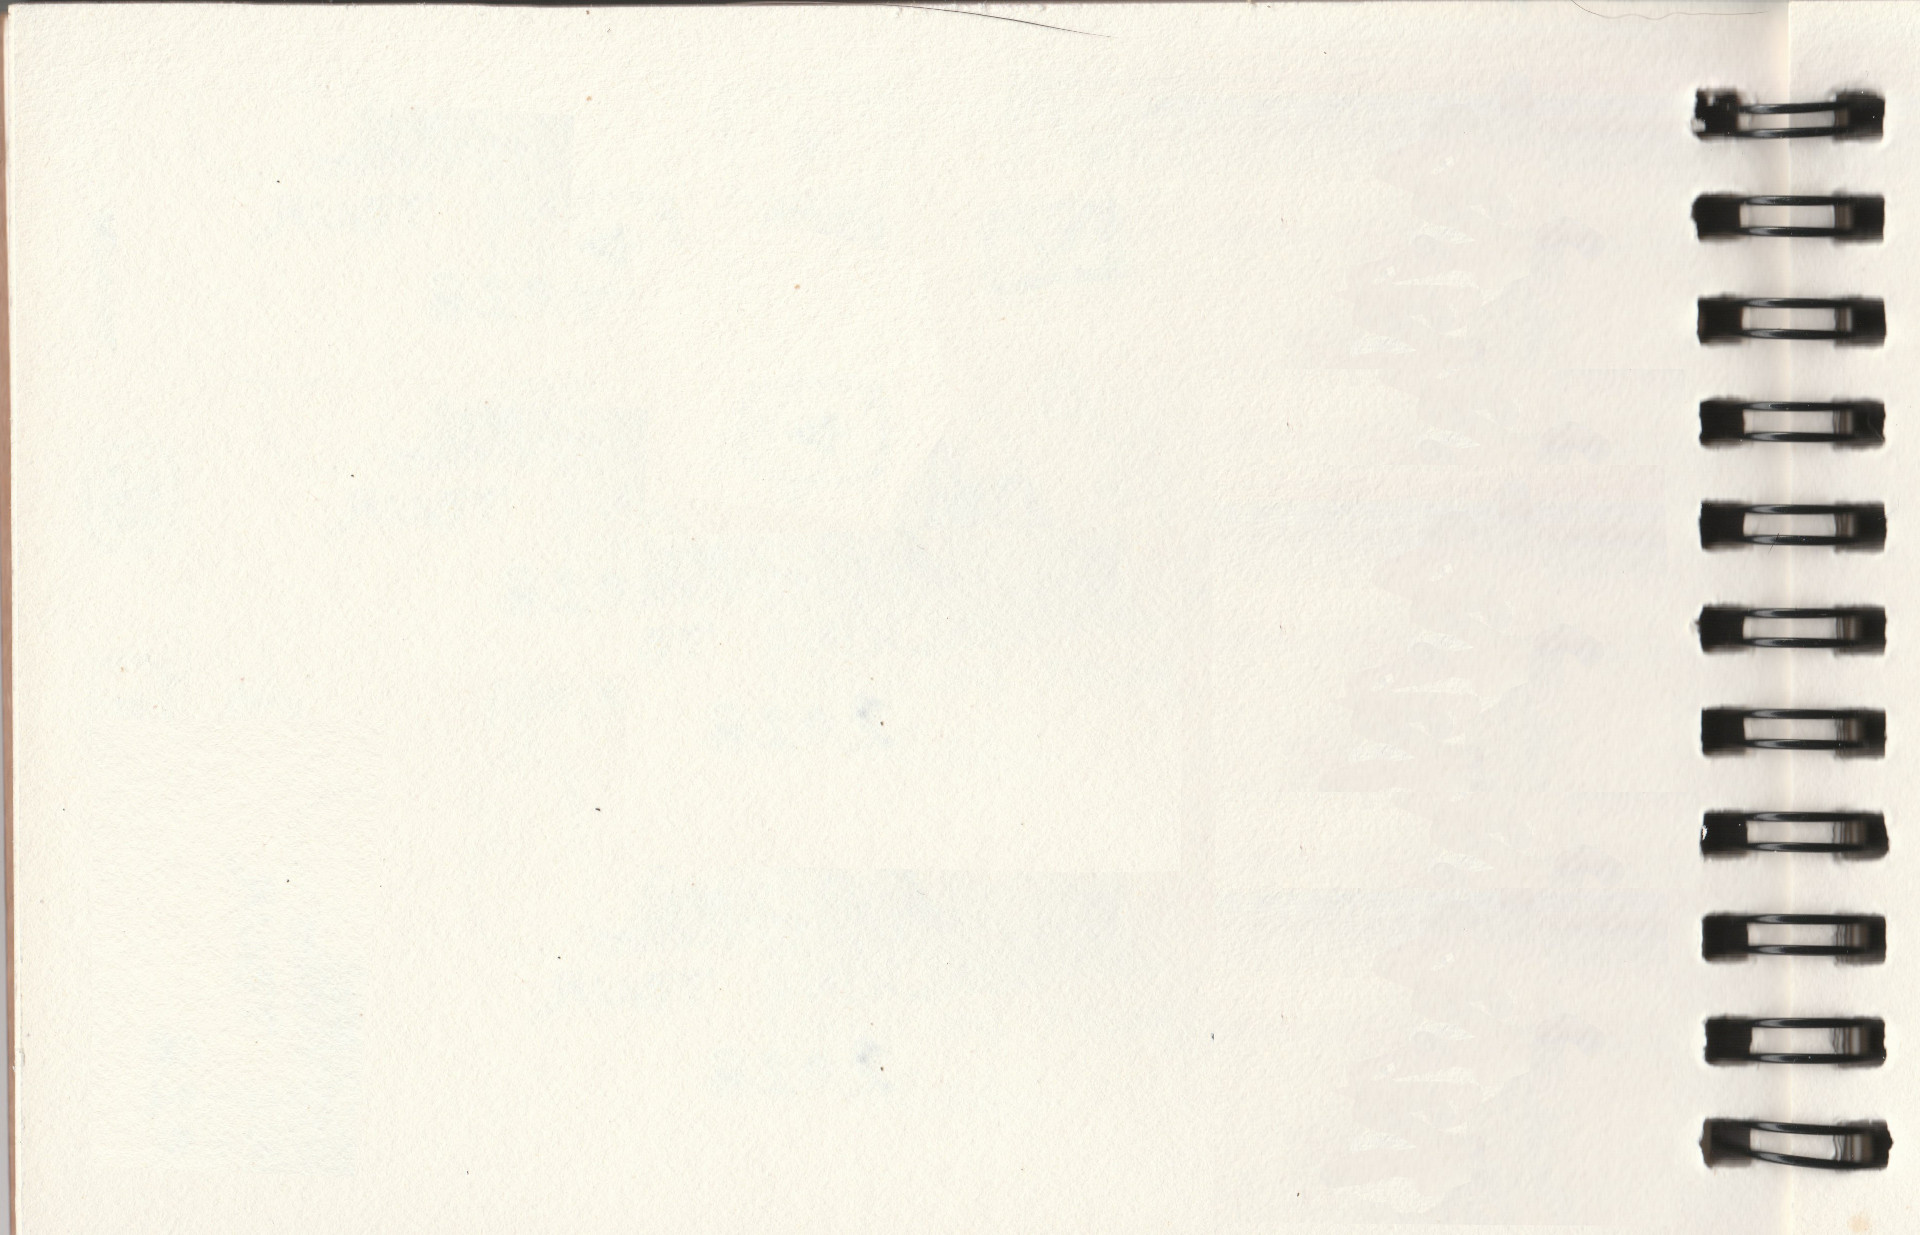
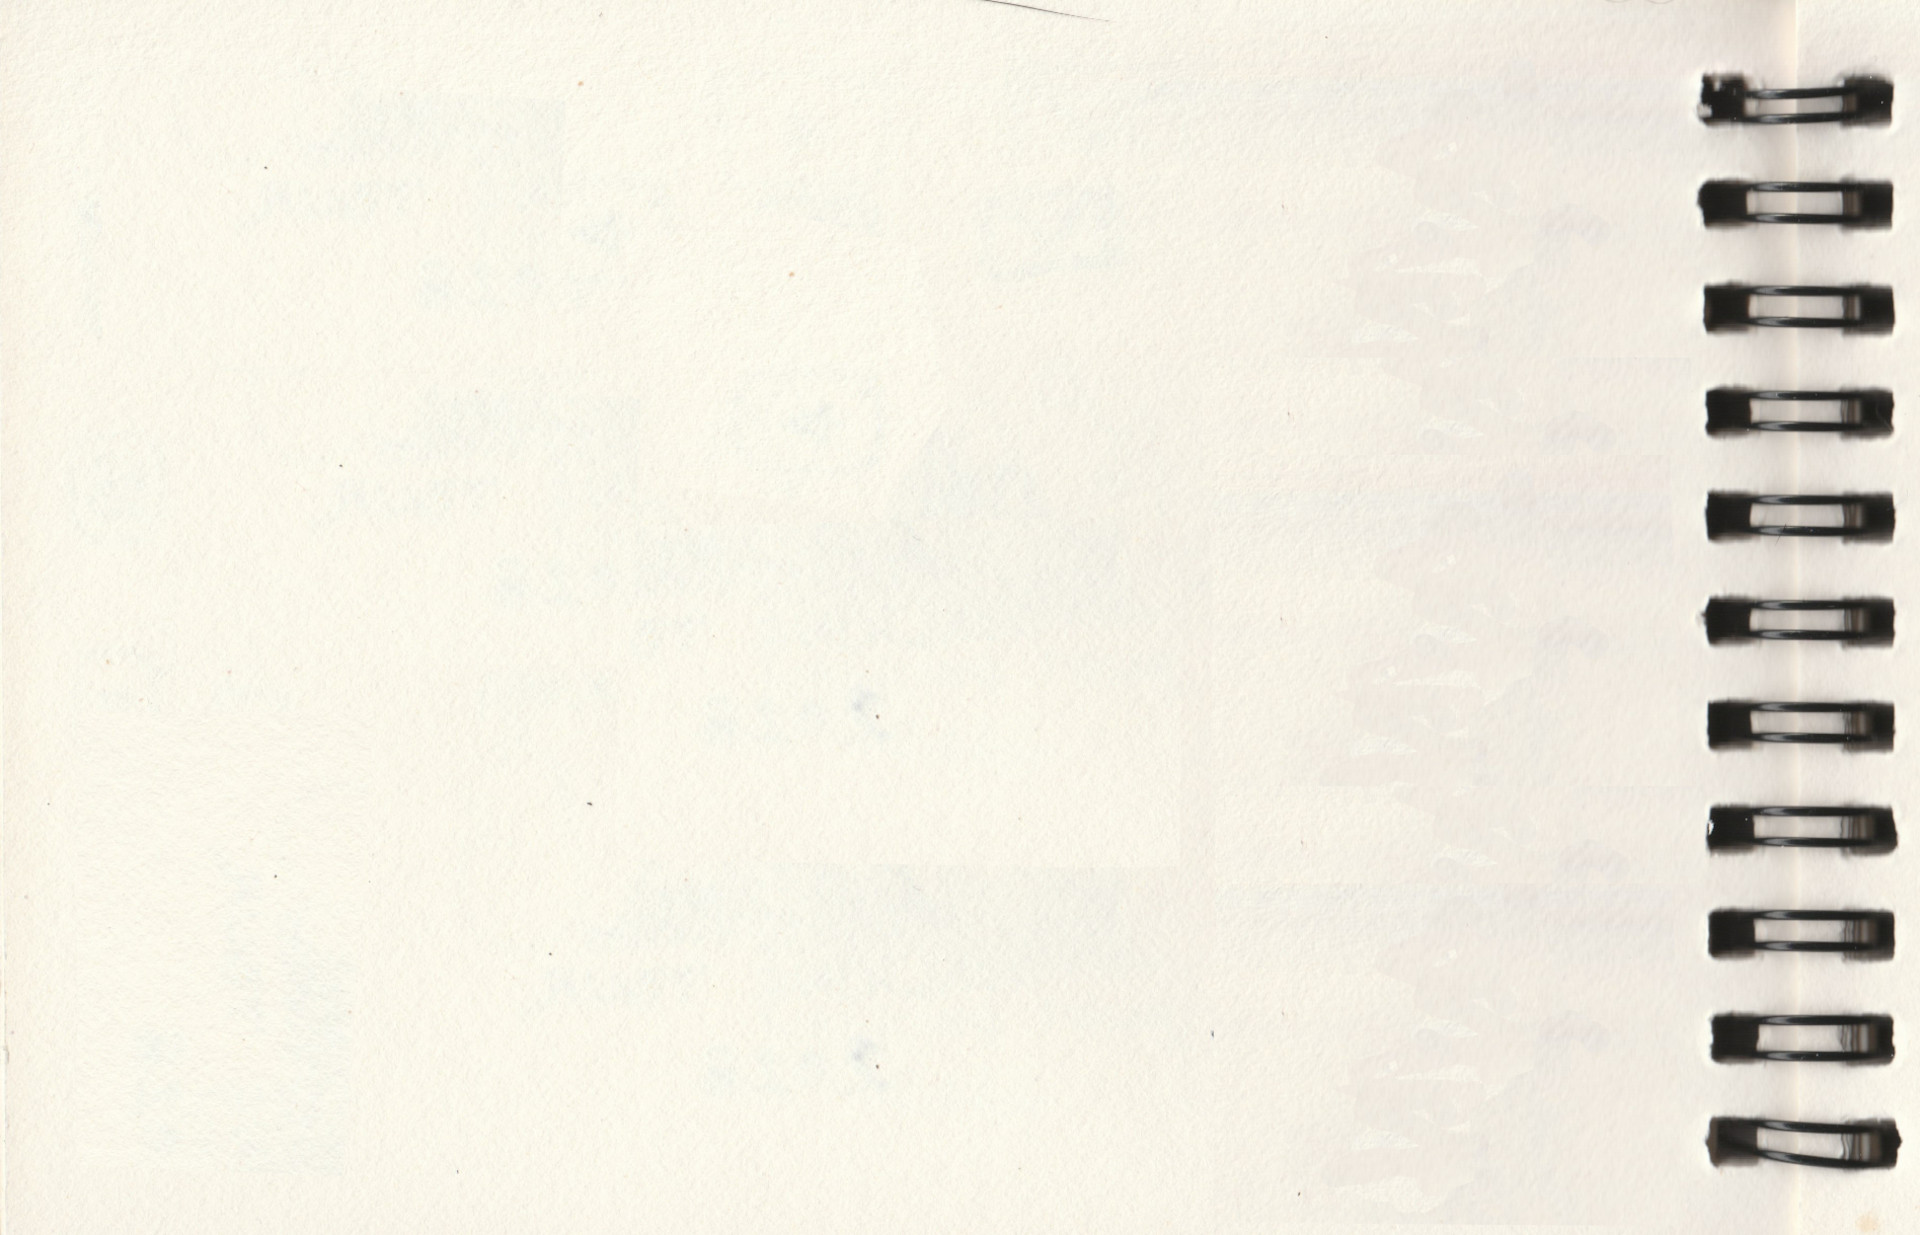
Add files via upload

diff --git a/CONTACT.html b/CONTACT.html
@@ -17,9 +17,9 @@
 
             @media only screen and (max-width: 900px), (pointer: coarse) {body {width: 100vw; height: 100vh; background-image: url(NOTEBOOK.jpeg); background-position: center top; background-size: auto 100vh; background-repeat: repeat; background-attachment: scroll; overflow-x: hidden;}}
 
-            @media only screen and (min-width: 900px) and (max-width: 1500px), (pointer: coarse) {body {width: 100vw; height: 100vh; background-image: url(NOTEBOOKCONTACT.jpg); background-position: center top; background-size: auto 100vh; background-repeat: no-repeat; background-attachment: scroll; overflow: hidden;}}
+            @media only screen and (min-width: 900px) and (max-width: 1500px), (pointer: coarse) {body {width: 100vw; height: 100vh; background-image: url(NOTEBOOK.jpeg); background-position: center top; background-size: auto 100vh; background-repeat: no-repeat; background-attachment: scroll; overflow: hidden;}}
 
-            @media only screen and (min-width: 1500px) {body {width: 100vw; height: 100vh; background-image: url(NOTEBOOKCONTACT.jpg); background-position: center; background-size: contain; background-repeat: no-repeat; background-attachment: fixed;}}
+            @media only screen and (min-width: 1500px) {body {width: 100vw; height: 100vh; background-image: url(NOTEBOOK.jpeg); background-position: center; background-size: contain; background-repeat: no-repeat; background-attachment: fixed; overflow-x: hidden;}}
 
           /* MailChimp Form Embed Code - Classic - 12/17/2015 v10.7 */
 #mc_embed_signup form {display:block; position:relative; text-align:left; margin: 20px}
@@ -586,6 +586,14 @@
 
 
       </div>
+
+      <div class="picgridabout">
+                <div><img class="collageabout" src="MUSICNOTES1.png" alt="EMRYS bassist Isaac Burland" loading="lazy"></div>
+                <div><img class="collageabout" src="EMRYSDRUMS.png" alt="EMRYS pianist Chris Outhwaite" loading="lazy"></div>
+                <div><img class="collageabout" src="MUSICNOTES2.png" alt="EMRYS drummer Sam Nicholls" loading="lazy"></div>
+            </div>
+            
+
 
         </div>
        
